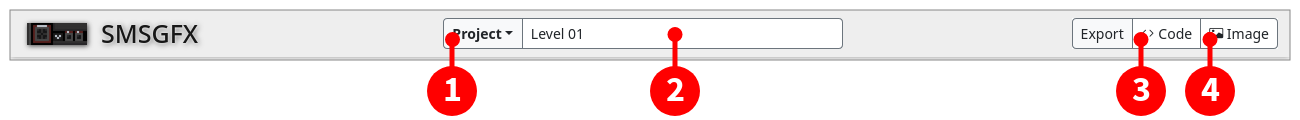
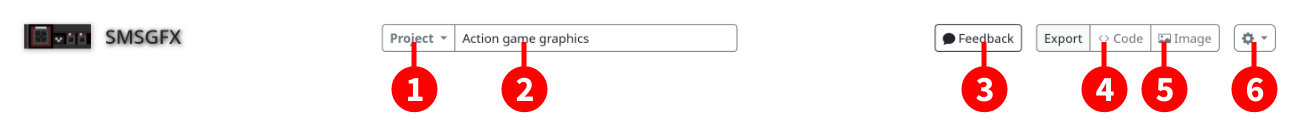
Documentation updates - Update index/home page. - Update quick overview page. - Update user interface page.

diff --git a/docs/source/interface.rst b/docs/source/interface.rst
@@ -3,14 +3,15 @@ Interface
 
 Main interface
 --------------
-The SMSGFX interface can be split into three main areas:
+The SMSGFX interface can be split into four main areas:
 
 .. image:: assets/images/ui-overview.png
     :alt: UI overview.
 
-#. **Project toolbar** - Manage your projects, import and export files.
-#. **Palette editor** - Create and manage colour palettes.
-#. **Tile editor** - Create and edit your graphics tiles.
+1. **Project toolbar** - Manage your projects, import and export files.
+2. **Palette editor** - Create and manage colour palettes.
+3. **Tile editor** - Create and edit your graphics tiles.
+4. **Tile manager** - Define and manage your tile maps, tile sets and select from the tile palette.
 
 These areas can be further divided as below.
 
@@ -23,8 +24,10 @@ The project toolbar allows you to manage your projects, load and save project fi
 
 #. Show the **project menu** (see below).
 #. **Project name** - Displays the project name, click and type in this field to change the project name.
+#. **Feedback button** - Displays a feedback form so that you can leave feedback on this application.
 #. **Export code** - Converts the entire project to assembly code and displays it in a window so that you can download it.
 #. **Export image** - Download the displayed tile set as a PNG image.
+#. Show the **options menu** (see below).
 
 The project menu is where you manage your loaded projects.
 
@@ -33,11 +36,12 @@ The project menu is where you manage your loaded projects.
 
 #. **Project name** - Displays the project name, click and type in this field to change the project name.
 #. Save the current project as a JSON file.
-#. **Project list** - Shows all of the projects that are in browser memory, click the title of a project to load it instantly.
+#. Click your desired system to create a project for that system. The new project window will be shown.
+#. **Project list** - Shows all of the projects that are in browser memory, click the title of a project to load it.
 #. Remove/delete a project from browser memory (this can not be undone, please save your project as JSON first!).
-#. Create a new project in browser memory, the newly created project is loaded instantly.
 #. Load a project from a previously exported JSON file.
-#. Click the project menu (you can also click outside the project menu or press the `ESC` key.)
+#. Show the welcome screen.
+#. Close the project menu (you can also click outside the project menu or press the `ESC` key.)
 
 Palette editor
 --------------
@@ -48,55 +52,81 @@ The palette editor is where you create and manage your colour palettes.
 
 1. Add a new palette with default colours and system selection.
 2. Import a colour palette from assembly code.
-3. Palette friendly name, click and type into this field to edit.
-4. Palette selector drop-down.
-5. System selection, choose between Sega Master System and Game Gear. Changing this option will affect the exported palette code and also how colours appear in the tile editor.
-6. Palette colour slots.
+3. Palette selector drop-down.
+4. Selected palette name, click and type into this field to edit.
+5. Edit button to change the name of the selected palette.
+6. System selection, if the project type allows it, you can choose between systems. Changing this option will affect the exported palette code and also how colours appear in the tile editor.
+7. Palette colour slots.
      - Single click a colour slot to select that colour. 
      - Double click a colour slot to display the colour editor window.
      - Currently selected colour is highlighted with a dark outline. 
      - As you move the mouse over the tile editor, the colour index that appears underneath the cursor is given a lighter outline.
-7. Enable "Emulate system colours" if you would like to snap colour display to the closest compatible colour for the given system, otherwise the colour will be rendered in the exact R, G, B values you entered.
-8. Clones the currently displayed palette as a new palette.
-9. Removes/deletes the currently displayed colour palette.
-10. With a colour selected, you can adjust the values here to modify the selected colour index, or click the "SMS colours" tab to pick from the entire SMS palette of 64 colours.
+8. Enable "Emulate system colours" if you would like to snap colour display to the closest compatible colour for the given system, otherwise the colour will be rendered in the exact R, G, B values you entered.
+9. Clone the selected palette.
+10. Removes (or delete) the selected palette.
+11. Palette selector, other palettes are shown in this list, click their name to edit them.
+12. Colour picker, to edit the selected colour index, the available options will depend on the project type.
 
 Tile editor
 -----------
-The tile editor is where you create and draw your tiles, the editor itself can be split into several sections as below:
+Where you create and draw your tiles, or arrange your tile maps.
+
+The editor itself can be split into several sections as below:
 
 .. image:: assets/images/tile-editor-overview.png
     :alt: Tile editor overview.
 
 1. **Main toolbar** - Access higher level application functions.
 2. **Context toolbar** - Displays contextual functions relating to the selected tool on the main toolbar.
-3. **Pixel editor** - graphical editor for previewing and modifying your tiles.
+3. **Pixel editor** - graphical editor for previewing and modifying your tiles, or creating a tile map.
 4. **View toolbar** - control zoom level, and other display settings.
 
 Each of these areas are explained below.
 
-Main toolbar
-~~~~~~~~~~~~
-.. image:: assets/images/tile-editor-main-toolbar.png
-    :alt: Tile editor, main toolbar.
+Tile map editor
+---------------
 
-1. **New tile** - Adds a new tile to the end of the tileset.
-2. **Import image** - Displays the image import dialogue allowing you to select a file form your local hard drive and convert it to a tile set.
-3. **Load tiles from code** - Displays a dialogue that allows you to import tiles from assembly code.
-4. **Undo** - Where available, undo your last action.
-5. **Redo** - Where available, redo an action that was previously undone.
-6. **Select tool** - Allows you to select individual tiles to perform various functions such as delete, copy, paste, mirror, etc.
-7. **Pencil tool** - Draw onto tiles within the tile editor.
+Main toolbar - Tile set mode
+~~~~~~~~~~~~~~~~~~~~~~~~~~~~~
+.. image:: assets/images/tile-editor-main-toolbar-tile-set.png
+    :alt: Tile editor, main toolbar, tile set mode.
+
+1. **Undo** and **Redo** - Where available, undo your last action or redo an undone action.
+2. **Select tool** - Allows you to select individual tiles to perform various functions such as delete, copy, paste, mirror, etc.
+3. **New tile** - Adds a new tile to the end of the tileset.
+4. **Import image** - Displays the image import dialogue allowing you to select a file form your local hard drive and convert it to a tile set.
+5. **Load tiles from code** - Displays a dialogue that allows you to import tiles from assembly code.
+6. **Pencil tool** - Draw onto tiles within the tile editor.
+7. **Colour replace tool** - Replaces one colour with another.
 8. **Fill tool** - Fills/replaces a contigious area of one colour index with another colour index.
 9. **Colour select tool** - Select the colour index associated with a pixel on the tile editor.
 10. **Reference image tool** - Used to set a background reference image to be displayed within the viewport.
-11. **Tile width** - When in tile set mode, changes the amount of tiles that are rendered per row in the viewport.
 
-Context toolbar - Select tool
+Main toolbar - Tile map mode
 ~~~~~~~~~~~~~~~~~~~~~~~~~~~~~
-When the select tool is activated you can click to select individual tiles in the tile set and then perform various operations on the selected tile.
+.. image:: assets/images/tile-editor-main-toolbar-tile-map.png
+    :alt: Tile editor, main toolbar, tile map mode.
 
-![Tile editor, context toolbar, select tool.](assets/images/tile-editor-context-toolbar-select.png)
+1. **Undo** and **Redo** - Where available, undo your last action or redo an undone action.
+2. **Tile attributes tool** - Select a tile within the tile map and apply transformations to it.
+3. **Row column mode** - Allows you to add or subtract rows and columns from the tile map.
+4. **Break link tool** - If the selected tile is used elsewhere, it creates a clone of that tile.
+5. **Tile stamp tool** - Allows you to stamp a tile onto the tile map.
+6. **Palette paint tool** - Changes the palette index on tiles that you click.
+7. **Tile select tool** - Selects the tile that is referenced in the tile map cell.
+8. **Pencil tool** - Draw onto tiles (affects all linked tiles).
+9. **Colour replace tool** - Replaces one colour with another (affects all linked tiles).
+8. **Fill tool** - Fills/replaces a contigious area of one colour index with another colour index (affects all linked tiles).
+9. **Colour select tool** - Select the colour index associated with a pixel on the tile editor.
+10. **Reference image tool** - Used to set a background reference image to be displayed within the viewport.
+
+Context toolbar - Select tool (tile set only)
+~~~~~~~~~~~~~~~~~~~~~~~~~~~~~~~~~~~~~~~~~~~~~
+When the select tool is activated you can click to select individual tiles in the tile set and then perform various operations on the selected tile.
+Only available in tile set mode.
+
+.. image:: assets/images/tile-editor-context-toolbar-select.png
+    :alt: Tile editor, context toolbar, select tool.
 
 1. **Cut** - Copies the selected tile to the clipboard and then removes it from the tile set.
 2. **Copy** - Copy the selected tile to the clipboard.
@@ -110,14 +140,16 @@ When the select tool is activated you can click to select individual tiles in th
 10. **Insert before** - Inserts a new blank tile before the selected tile.
 11. **Insert after** - Inserts a new blank tile after the selected tile.
 
-Context toolbar - Pencil tool
-~~~~~~~~~~~~~~~~~~~~~~~~~~~~~
+Context toolbar - Pencil and replace colour tools
+~~~~~~~~~~~~~~~~~~~~~~~~~~~~~~~~~~~~~~~~~~~~~~~~~
 Displayed when the pencil tool is activated.
 
 .. image:: assets/images/tile-editor-context-toolbar-pencil.png
     :alt: Tile editor, context toolbar, pencil tool.
 
 1. **Brush size** - Allows you to choose a brush size.
+2. **Clamp to tile** - Limits changes to only within the tile that you clicked on.
+3. **Break links** - Tile map only. If you draw onto a tile that is linked to other tiles, that link will be broken so that only the tile that you drew on will be affected.
 
 Context toolbar - Reference tool
 ~~~~~~~~~~~~~~~~~~~~~~~~~~~~~~~~
@@ -135,6 +167,52 @@ Displayed when the reference image tool is activated.
 7. **Image height** - Make the reference image vertically taller or shorter.
 8. **Maintain aspect ratio** - When resizing the reference image enabling this option will maintain the horizontal or vertical proportions of the reference image.
 9. **Display style** - Choose the way in which the reference image is displayed, it can be drawn in-place of a colour, or overlayed over the entire image.
+
+Context toolbar - Tile attributes tool (tile map only)
+~~~~~~~~~~~~~~~~~~~~~~~~~~~~~~~~~~~~~~~~~~~~~~~~~~~~~~
+This is the toolbar that appears when you select the tile attributes tool while in tile map mode.
+
+.. image:: assets/images/tile-editor-context-toolbar-tile-attributes.png
+    :alt: Tile editor, context toolbar, tile attributes tool.
+
+1. **Mirror horizontally** - Sets the mirror horizontal attribute of the tile map tile, when the target system supports it.
+2. **Mirror vertically** - Sets the mirror vertical attribute of the tile map tile, when the target system supports it.
+3. **Priority** - Sets the priority flag on the tile, making the tile render over sprites, when the target system supports it.
+4. **Palette slot** - Change the palette slot that the tile map tile uses.
+
+Context toolbar - Row and column mode (tile map only)
+~~~~~~~~~~~~~~~~~~~~~~~~~~~~~~~~~~~~~~~~~~~~~~~~~~~~~~
+This is the toolbar that appears when you select the row and column tool while in tile map mode.
+
+.. image:: assets/images/tile-editor-context-toolbar-row-column-mode.png
+    :alt: Tile editor, context toolbar, row and column mode.
+
+1. **Add row** - Changes to add row mode.
+2. **Remove row** - Changes to delete row mode.
+3. **Add column** - Changes to add column mode.
+4. **Remove column** - Changes to delete column mode.
+5. **Fill mode** - When a new row or column is added, this changes the way that adding required tiles to the tile map is handled.
+
+Context toolbar - Tile stamp (tile map only)
+~~~~~~~~~~~~~~~~~~~~~~~~~~~~~~~~~~~~~~~~~~~~~~~~~~~~~~
+The tile stamp tool is like a paint brush that paints a particular tile onto a tile map.
+
+By default the tile that you've selected in the tile palette is used, but you can also define a tile pattern from other tiles in your tile map.
+
+.. image:: assets/images/tile-editor-context-toolbar-tile-stamp.png
+    :alt: Tile editor, context toolbar, tile stamp mode.
+
+1. **Define pattern** - By default the currently selected tile will be stamped, when you click this button, click into the tile map image and drag to define a pattern to stamp instead.
+2. **Clear pattern** - Clears the defined pattern and returns to stamping the selected tile.
+
+Context toolbar - Palette paint (tile map only)
+~~~~~~~~~~~~~~~~~~~~~~~~~~~~~~~~~~~~~~~~~~~~~~~~~~~~~~
+The palette paint tool is like a paint brush that paints a palette index onto numerous tiles.
+
+.. image:: assets/images/tile-editor-context-toolbar-palette-paint.png
+    :alt: Tile editor, context toolbar, palette paint mode.
+
+1. **Select slot** - Choose the palette slot that will be assigned to tiles as you paint over them.
 
 Context toolbar - View toolbar
 ~~~~~~~~~~~~~~~~~~~~~~~~~~~~~~

diff --git a/docs/source/index.rst b/docs/source/index.rst
@@ -1,8 +1,13 @@
 Welcome to SMSGFX!
 ==================
 
-A browser-based tile editor for making graphics for Sega Master System and 
-Sega Game Gear games.
+SMSGFX is a free and easy to use, browser based tile editor that helps you make graphics for retro games 
+consoles, currently supporting:
+
+* Sega Game Gear
+* Sega Master System
+* Nintendo Entertainment System
+* Nintendo Game Boy 
 
 .. image:: assets/images/home-page-banner.png
     :alt: SMSGFX application.
@@ -12,14 +17,15 @@ so that you can bring your ideas to life!
 
 What is SMSGFX?
 ---------------
-SMSGFX is tile editor for Sega Master System and Sega Game Gear games.
+SMSGFX is tile editor to help you make graphics for retro games.
 
 It runs entirely within your web browser and doesn't require any software
 downloads or online cloud accounts to operate.
 
 Using the available tools you can paint up your own tile based graphics, 
-create your colour palettes, and then export your work into a format that the 
-Sega Master System and Game Gear understands for use in your projects.
+define colour palettes and arrange them in tile maps. When you're done you can 
+export your work into a format that the your target console understands 
+for use in your projects.
 
 If you have an existing game project, or graphics as image files then you can 
 also easily bring those graphics into SMSGFX, work with them and then export 

diff --git a/docs/source/quick-overview.rst b/docs/source/quick-overview.rst
@@ -1,8 +1,8 @@
 Quick overview
 ==============
 
-SMSGFX is an easy to use, browser based tile editor that helps you make graphics for retro games 
-consoles, currently we support the following consoles:
+SMSGFX is a free and easy to use, browser based tile editor that helps you make graphics for retro games 
+consoles, currently supporting:
 
 * Sega Game Gear
 * Sega Master System
